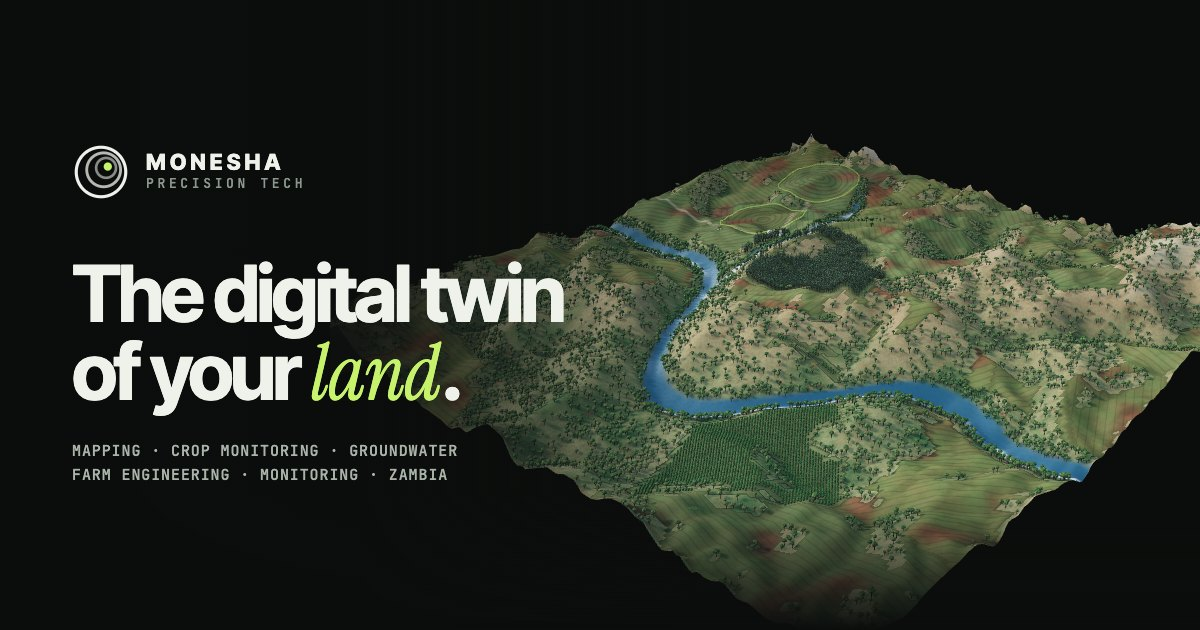
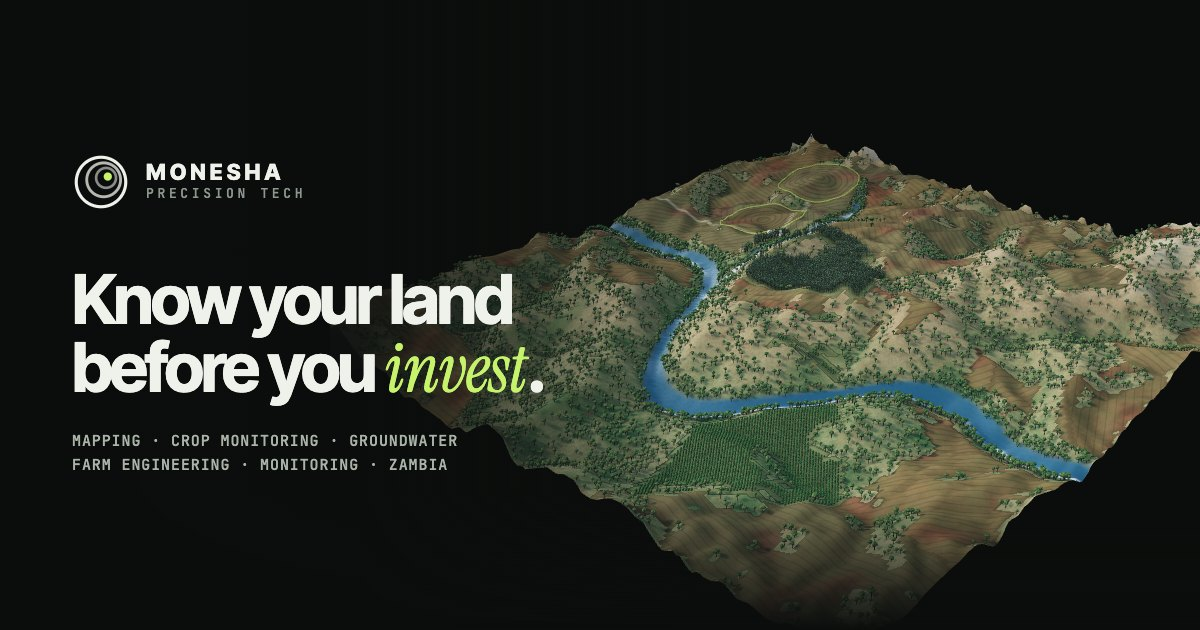
Update titles and share card, keep assistant clear of content

Changed region(s): [[0.0617, 0.3921, 0.4933, 0.6635], [0.0617, 0.6937, 0.4008, 0.7841], [0.0617, 0.2111, 0.2467, 0.3317]]

diff --git a/explore.html b/explore.html
@@ -4,7 +4,7 @@
   <meta charset="utf-8">
   <meta name="viewport" content="width=device-width, initial-scale=1">
   <title>Explore the demos — Monesha Precision Tech</title>
-  <meta name="description" content="Monesha Precision Tech: 3D land mapping, crop monitoring, groundwater survey, farm design, precision spraying and monitoring for farms, orchards and plantations across Zambia.">
+  <meta name="description" content="Working demos on one simulated farm: groundwater, crop fit, irrigation design, satellite watch and before/after.">
   <meta name="theme-color" content="#0b0d0c">
   <link rel="icon" href="assets/logo.svg" type="image/svg+xml">
   <link rel="icon" href="assets/icons/favicon-32.png" sizes="32x32" type="image/png">
@@ -13,16 +13,16 @@
   <link rel="apple-touch-icon" href="assets/icons/apple-touch-icon.png">
   <meta property="og:type" content="website">
   <meta property="og:site_name" content="Monesha Precision Tech">
-  <meta property="og:title" content="Monesha Precision Tech — Digital twins for Zambian farms">
-  <meta property="og:description" content="3D land mapping, crop monitoring, groundwater survey, farm design, precision spraying and monitoring for farms, orchards and plantations across Zambia.">
+  <meta property="og:title" content="Explore the demos — Monesha Precision Tech">
+  <meta property="og:description" content="Working demos on one simulated farm: groundwater, crop fit, irrigation design, satellite watch and before/after.">
   <meta property="og:url" content="https://chipo385.github.io/monesha/explore.html">
   <meta property="og:image" content="https://chipo385.github.io/monesha/assets/og.jpg">
   <meta property="og:image:width" content="1200">
   <meta property="og:image:height" content="630">
   <meta property="og:locale" content="en_ZM">
   <meta name="twitter:card" content="summary_large_image">
-  <meta name="twitter:title" content="Monesha Precision Tech — Digital twins for Zambian farms">
-  <meta name="twitter:description" content="3D land mapping, crop monitoring, groundwater survey, farm design, precision spraying and monitoring for farms, orchards and plantations across Zambia.">
+  <meta name="twitter:title" content="Explore the demos — Monesha Precision Tech">
+  <meta name="twitter:description" content="Working demos on one simulated farm: groundwater, crop fit, irrigation design, satellite watch and before/after.">
   <meta name="twitter:image" content="https://chipo385.github.io/monesha/assets/og.jpg">
   <script>
     // JS is on; decide low-data mode before paint, and only preload the 3D library when it will be used.

diff --git a/index.html b/index.html
@@ -3,7 +3,7 @@
 <head>
   <meta charset="utf-8">
   <meta name="viewport" content="width=device-width, initial-scale=1">
-  <title>Monesha Precision Tech — Digital twins for Zambian farms</title>
+  <title>Monesha Precision Tech — Know your land before you invest</title>
   <meta name="description" content="Monesha Precision Tech: 3D land mapping, crop monitoring, groundwater survey, farm design, precision spraying and monitoring for farms, orchards and plantations across Zambia.">
   <meta name="theme-color" content="#0b0d0c">
   <link rel="icon" href="assets/logo.svg" type="image/svg+xml">
@@ -13,7 +13,7 @@
   <link rel="apple-touch-icon" href="assets/icons/apple-touch-icon.png">
   <meta property="og:type" content="website">
   <meta property="og:site_name" content="Monesha Precision Tech">
-  <meta property="og:title" content="Monesha Precision Tech — Digital twins for Zambian farms">
+  <meta property="og:title" content="Monesha Precision Tech — Know your land before you invest">
   <meta property="og:description" content="3D land mapping, crop monitoring, groundwater survey, farm design, precision spraying and monitoring for farms, orchards and plantations across Zambia.">
   <meta property="og:url" content="https://chipo385.github.io/monesha/">
   <meta property="og:image" content="https://chipo385.github.io/monesha/assets/og.jpg">
@@ -21,7 +21,7 @@
   <meta property="og:image:height" content="630">
   <meta property="og:locale" content="en_ZM">
   <meta name="twitter:card" content="summary_large_image">
-  <meta name="twitter:title" content="Monesha Precision Tech — Digital twins for Zambian farms">
+  <meta name="twitter:title" content="Monesha Precision Tech — Know your land before you invest">
   <meta name="twitter:description" content="3D land mapping, crop monitoring, groundwater survey, farm design, precision spraying and monitoring for farms, orchards and plantations across Zambia.">
   <meta name="twitter:image" content="https://chipo385.github.io/monesha/assets/og.jpg">
   <script>

diff --git a/tools/og.html b/tools/og.html
@@ -20,7 +20,7 @@
     .brand svg { width: 58px; height: 58px; color: #eef2ea; }
     .word { display: flex; flex-direction: column; font-weight: 800; letter-spacing: .18em; font-size: 22px; line-height: 1.1; }
     .word small { font: 500 13px/1.5 'JetBrains Mono', monospace; letter-spacing: .28em; color: #8b968c; }
-    h1 { font-size: 78px; line-height: 1; letter-spacing: -.045em; margin: 0 0 26px; font-weight: 700; }
+    h1 { font-size: 68px; line-height: 1; letter-spacing: -.045em; margin: 0 0 26px; font-weight: 700; }
     h1 em { font-family: 'Instrument Serif', serif; font-weight: 400; color: #c6f36b; letter-spacing: -.01em; }
     p { font: 500 15px/1.6 'JetBrains Mono', monospace; letter-spacing: .06em; text-transform: uppercase; color: #a9b3a8; margin: 0; }
   </style>
@@ -33,7 +33,7 @@
       <svg viewBox="0 0 48 48" fill="none"><circle cx="24" cy="24" r="20.5" stroke="currentColor" stroke-width="2.6"/><circle cx="26.2" cy="22.2" r="14" stroke="currentColor" stroke-width="2.4" opacity=".75"/><circle cx="28.2" cy="20.6" r="8.2" stroke="currentColor" stroke-width="2.2" opacity=".55"/><circle cx="29.6" cy="19.5" r="3.4" fill="#c6f36b"/></svg>
       <span class="word">MONESHA<small>PRECISION TECH</small></span>
     </div>
-    <h1>The digital twin<br>of your <em>land</em>.</h1>
+    <h1>Know your land<br>before you <em>invest</em>.</h1>
     <p>Mapping · Crop monitoring · Groundwater<br>Farm engineering · Monitoring · Zambia</p>
   </div>
   <script type="module">

diff --git a/js/assistant.js b/js/assistant.js
@@ -39,7 +39,7 @@ export function initAssistant() {
   root.className = 'assist';
   root.setAttribute('aria-label', 'Site assistant');
   root.innerHTML = `
-    <button class="assist__open" type="button" aria-expanded="false" aria-controls="assist-panel">Ask a question</button>
+    <button class="assist__open" type="button" aria-expanded="false" aria-controls="assist-panel" aria-label="Ask a question"><span class="assist__t">Ask a question</span><span class="assist__q" aria-hidden="true">?</span></button>
     <div class="assist__panel" id="assist-panel" hidden>
       <div class="assist__head"><div><b>Site assistant</b><span>Automatic answers, not a person</span></div><button type="button" class="assist__x" aria-label="Close assistant">×</button></div>
       <div class="assist__log" role="log" aria-live="polite" tabindex="0" aria-label="Conversation"></div>

diff --git a/css/styles.css b/css/styles.css
@@ -784,3 +784,6 @@ input[type="range"]::-moz-range-thumb { width: 12px; height: 12px; border-radius
 .about .ticks { margin-bottom: 24px; }
 .contact-list a { flex-wrap: wrap; gap: 2px 14px; overflow-wrap: anywhere; }
 .form legend.sr-only { width: 1px; margin: 0; padding: 0; left: 0; }
+.assist__q { display: none; }
+@media (max-width: 760px) { .assist__t { display: none; } .assist__q { display: block; } .assist__open { width: 46px; height: 46px; padding: 0; font-size: 19px; } }
+@media (min-width: 761px) { .hero .hud { margin-bottom: 84px; } }
